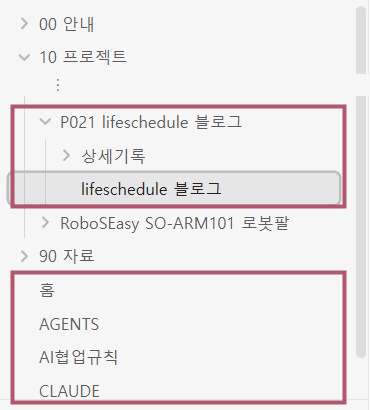
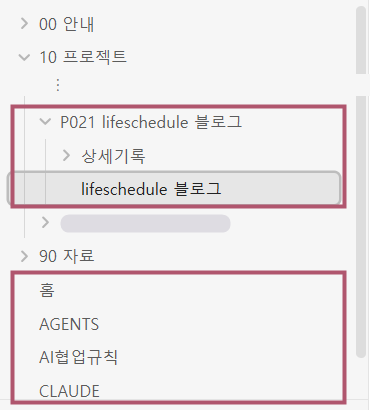
Lesson 3: redact personal folder names in screenshots, drop captions, align prompt labels

Changed region(s): [[0.1486, 0.5268, 0.773, 0.5854]]

diff --git a/_posts/2026-09-27-gpters-24-md.md b/_posts/2026-09-27-gpters-24-md.md
@@ -57,17 +57,18 @@ AI는 규칙과 기록을 주로 md 파일로 남겨요.<br>
 <div><span class="n">2</span><span><code>CLAUDE.md</code> 첫 줄에 <code>@AGENTS.md</code>라고 적어요. → <b>Claude</b>도 AGENTS.md를 읽어요.</span></div>
 </div>
 
-<div class="seq"><figure><img src="/assets/img/md/md-claude-import.png" alt="메모장으로 연 CLAUDE.md. 첫 줄에 @AGENTS.md가 적혀 있다"><figcaption>첫 줄의 <code>@AGENTS.md</code>가 연결 고리예요</figcaption></figure></div>
+<div class="seq"><figure><img src="/assets/img/md/md-claude-import.png" alt="메모장으로 연 CLAUDE.md. 첫 줄에 @AGENTS.md가 적혀 있다"></figure></div>
 
 ## <span class="no">3</span> 원드라이브 안의 AI 작업 폴더 구조
 
 규칙 파일은 <code>me</code> 바로 아래에, 기록 md 파일은 <code>Obsidian Vault</code> 안에 있어요.
 
-<div class="seq"><figure><img src="/assets/img/md/md-me-folder.png" alt="파일 탐색기로 연 me 폴더. 주제별 폴더들과 Obsidian Vault 폴더, AGENTS.md, CLAUDE.md, README.md 파일이 보인다"><figcaption>분홍 칸: <b>규칙 파일</b>과 <b>Obsidian Vault</b>(보관함)</figcaption></figure></div>
+<div class="seq"><figure><img src="/assets/img/md/md-me-folder.png" alt="파일 탐색기로 연 me 폴더. 주제별 폴더들과 Obsidian Vault 폴더, AGENTS.md, CLAUDE.md, README.md 파일이 보인다"></figure></div>
 
-보관함을 옵시디언으로 열면 이렇게 보여요.
+보관함을 옵시디언으로 열면, 위에는 프로젝트 개요와 상세기록이 있어요.<br>
+아래에는 규칙 파일과 홈이 있어요.
 
-<div class="seq"><figure><img src="/assets/img/md/md-obsidian-tree-short.png" alt="옵시디언 왼쪽 파일 목록. 프로젝트 폴더 안에 개요와 상세기록이 있고, 아래에 홈, AGENTS, AI협업규칙, CLAUDE 파일이 있다" style="max-width:340px;margin:auto;display:block"><figcaption><b>위</b>: 프로젝트 개요와 상세기록<br><b>아래</b>: 규칙 파일과 홈</figcaption></figure></div>
+<div class="seq"><figure><img src="/assets/img/md/md-obsidian-tree-short.png" alt="옵시디언 왼쪽 파일 목록. 프로젝트 폴더 안에 개요와 상세기록이 있고, 아래에 홈, AGENTS, AI협업규칙, CLAUDE 파일이 있다" style="max-width:340px;margin:auto;display:block"></figure></div>
 
 ## <span class="no">4</span> 바로 써먹어 보는 요청문 <small>(한번 해 보세요!)</small>
 
@@ -77,7 +78,7 @@ AI는 규칙과 기록을 주로 md 파일로 남겨요.<br>
 
 <div class="prompt"><span class="who">md 파일 나눠 보기</span><button class="copy" type="button">복사</button><span class="txt">me 폴더 안의 md 파일을 찾아서 셋으로 나눠 표로 보여줘.
 
-- 나누는 칸: 꼭 읽기 / 필요할 때 / 안 읽어도 됨
+- 나누는 칸: 꼭 읽을 파일 / 필요할 때 읽을만한 파일 / AI가 스스로 쓰는 파일
 - 파일마다 하는 일을 한 줄로 쉽게 설명해줘.
 - 파일을 고치거나 옮기지는 마.</span></div>
 
@@ -106,7 +107,6 @@ AI는 규칙과 기록을 주로 md 파일로 남겨요.<br>
 - 적을 것: 완료한 일, 확인한 것, 못 한 것, 다음 할 일
 - 개요 노트의 개발기록에도 한 줄 더해줘.
 - 끝나면 두 파일의 위치를 알려줘.</span></div>
-
 
 <h3 class="step-h"><span>4</span>같은 요청을 반복하고 있을 때</h3>
 
